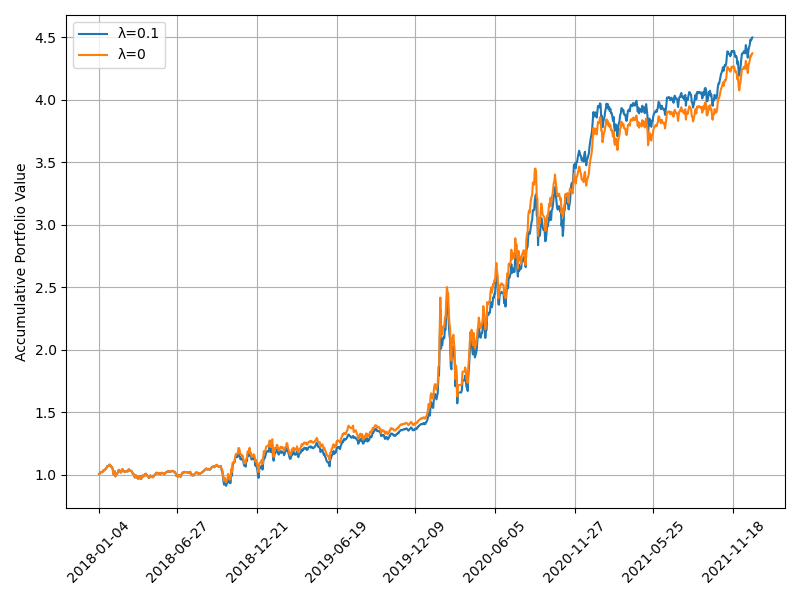
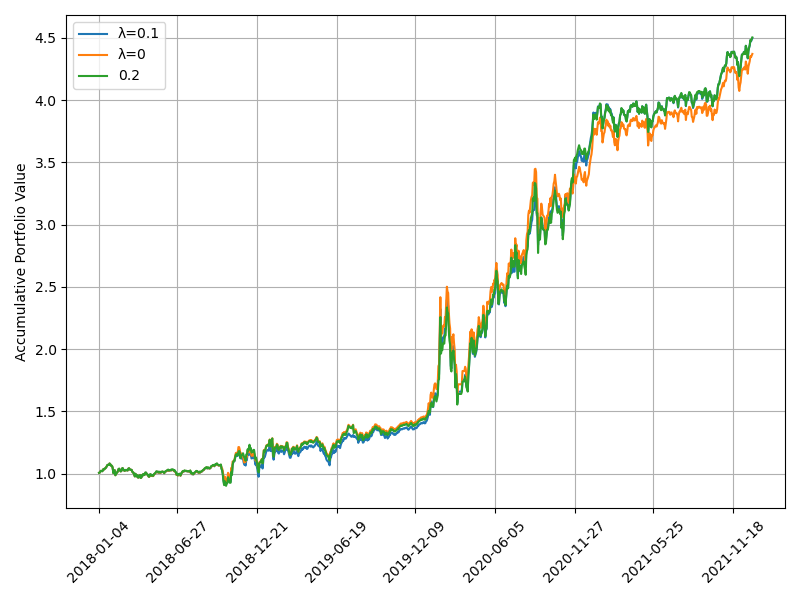
0425

diff --git a/final.py b/final.py
@@ -15,6 +15,7 @@ TU_NONE = 'save_/2022-04-24/120927_none'
 # reward
 R = 'save_/2022-04-24/120927'
 R0 = 'save_/2022-04-24/121248'
+R2 = 'save_/2022-04-25/102421'
 # ew
 top10 = 'data/ew/ew10.pickle'
 top30 = 'data/ew/ew30.pickle'
@@ -63,10 +64,12 @@ def final():
 def reward():
     r, _, _, _, _, dates = load_values(R)
     r0 = load_values(R0)[0]
+    r2 = load_values(R2)[0]
     plt.figure(figsize=(8, 6))
     ax = plt.subplot()
     ax.plot(dates, r, dates, r0)
-    legend = ['λ=0.1', 'λ=0']
+    ax.plot(dates, r2)
+    legend = ['λ=0.1', 'λ=0', '0.2']
     f = 'reward'
     fig_setting(ax, legend, f)
 

diff --git a/bench.py b/bench.py
@@ -1,0 +1,23 @@
+import numpy as np
+from final import load_values
+from utils.evaluation import evaluation_metrics
+
+
+
+
+
+
+
+def main():
+    path = 'save_/2022-04-24/120927'
+    _, _, _, sp500, sp100, _ = load_values(path)
+    sp500_returns = sp500[1:] / sp500[:-1] - 1
+    sp100_returns = sp100[1:] / sp100[:-1] - 1
+    sr5, str5, mdd5 = evaluation_metrics(sp500_returns, sp500)
+    print(sp500[-1], sr5, str5, mdd5)
+    sr1, str1, mdd1 = evaluation_metrics(sp100_returns, sp100)
+    print(sp100[-1], sr1, str1, mdd1)
+
+
+if __name__ == '__main__':
+    main()

diff --git a/mv.py b/mv.py
@@ -33,11 +33,11 @@ def mv_weights(year, Q):
 
 def test(args, year, Q, test_start_date):
     target_stocks = get_targets(year=year, Q=Q, num=TARGET_NUM)
-    #weights = mv_weights(year, Q)
-    #weights = np.array(list(weights.values()))
+    weights = mv_weights(year, Q)
+    weights = np.array(list(weights.values()))
 
     # for equal weight
-    weights = np.ones(TARGET_NUM) / TARGET_NUM
+    #weights = np.ones(TARGET_NUM) / TARGET_NUM
     # for equal weight
 
     weights = np.insert(weights, 0, 0)

diff --git a/environment/portfolio_new.py b/environment/portfolio_new.py
@@ -173,7 +173,7 @@ class PortfolioSim(object):
         excess_ew_return = rho1 + 1 - np.mean((y0 * y1)[1:])
         reward = r1 - self.lam1 * np.max(w1) + self.lam2 * excess_ew_return # penalty on centralized weight
         
-        #print(r1, self.lam2 * excess_ew_return, reward)
+        #print(r1, excess_ew_return, reward)
         
         self.p0 = p1
 

diff --git a/path.py b/path.py
@@ -1,3 +1,3 @@
 def test_path():
-    path = './save_/2022-04-24/123311/'
+    path = './save_/2022-04-25/102421/'
     return path
